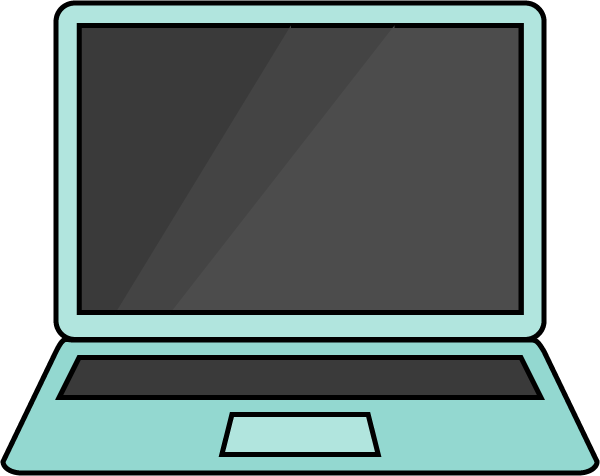
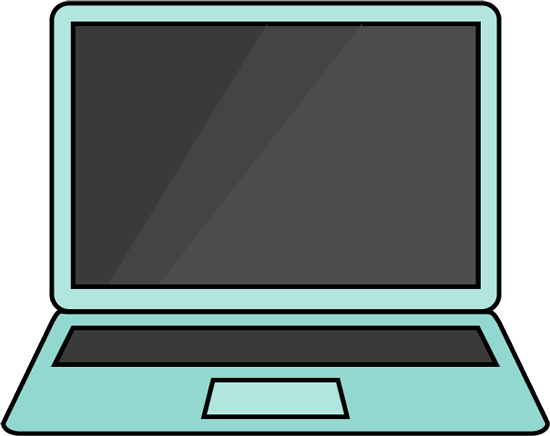
image resize

diff --git a/studio2/styles.css b/studio2/styles.css
@@ -5,11 +5,10 @@
 body {
     font-family: 'Roboto Mono', monospace;
     background-image: url(images/background2.png);
-    background-repeat: none;
     background-position: center;
-    background-size:cover;
-    background-repeat: no-repeat;
+    background-size: cover;
     background-attachment: fixed;
+    background-repeat: no-repeat;
     height: 100%;
 }
 
@@ -30,7 +29,6 @@ h1 {
 }
 
 
-
 #items img {
     height: 25vh;
     width: auto;
@@ -38,11 +36,10 @@ h1 {
 }
 
 
-
-#items img:hover {
+#items article img:hover {
     transform: scale(1.1);
-    
 }
+
 
 /* footer */
 
@@ -61,8 +58,6 @@ footer a {
 }
 
 
-
-
 /* overlay */
 
 #sketchbookoverlay, #laptopoverlay, #headphonesoverlay {
@@ -75,6 +70,7 @@ footer a {
     display: none;
     text-align: center;
 }
+
 
 p {
     text-align: left;
@@ -102,6 +98,7 @@ p {
     font-size: 2em;
 }
 
+
 .open {
     margin-top: 8%;
 }
@@ -112,27 +109,17 @@ p {
 @media only screen and (min-width: 769px) {
     h1 {
         padding-top: 30px;
-
     }
     
     #items{
         display: flex;
         flex-direction: row;
         justify-content: center;
-        
-    
     }
     
     #items img {
         width: 100% !important;
         height: auto !important;
         max-width: 300px;
-
 	}
-
-    
-
 }
-
-        
-        

diff --git a/studio2/index.html b/studio2/index.html
@@ -15,16 +15,14 @@
     <h1>What's in my bag?</h1>
     <section id="items"> 
         <article>
-           <img id="sketchbook" src="images/sketchbook.png" alt="sketchbook" width="70">
+           <img id="sketchbook" src="images/sketchbook.png" alt="sketchbook" width="200">
         </article>
         <article>
-            <img id="laptop" src="images/laptop.png" alt="laptop" width="70">
+            <img id="laptop" src="images/laptop.png" alt="laptop" width="200">
         </article>
         <article>
-            <img id="headphones" src="images/headphones.png" alt="headphones" width="70">
+            <img id="headphones" src="images/headphones.png" alt="headphones" width="200">
         </article>
-         
-  
        
         <section id="sketchbookoverlay">
             <img class="open" src="images/sketchbookopen.png" alt="sketchbookopen" width="250">
@@ -48,9 +46,7 @@
         </section>
     </section>
     
-    
-    
-    <footer class="pagefooter">
+    <footer>
         <a href="mailto:celinawleong@gmail.com">Email</a>
         <a href="https://validator.w3.org/check?uri=referer">Valid HTML 5</a>
         <a href="https://jigsaw.w3.org/css-validator/check/referer">Valid CSS</a>

diff --git a/studio2/script.js b/studio2/script.js
@@ -5,7 +5,6 @@ var sketchbook = document.querySelector('#sketchbook');
 var laptop = document.querySelector('#laptop');
 var headphones = document.querySelector('#headphones');
 
-
 var sketchbookoverlay = document.querySelector('#sketchbookoverlay');
 var sketchbookclose = document.querySelector('#sketchbookclose');
 var laptopoverlay = document.querySelector('#laptopoverlay');
